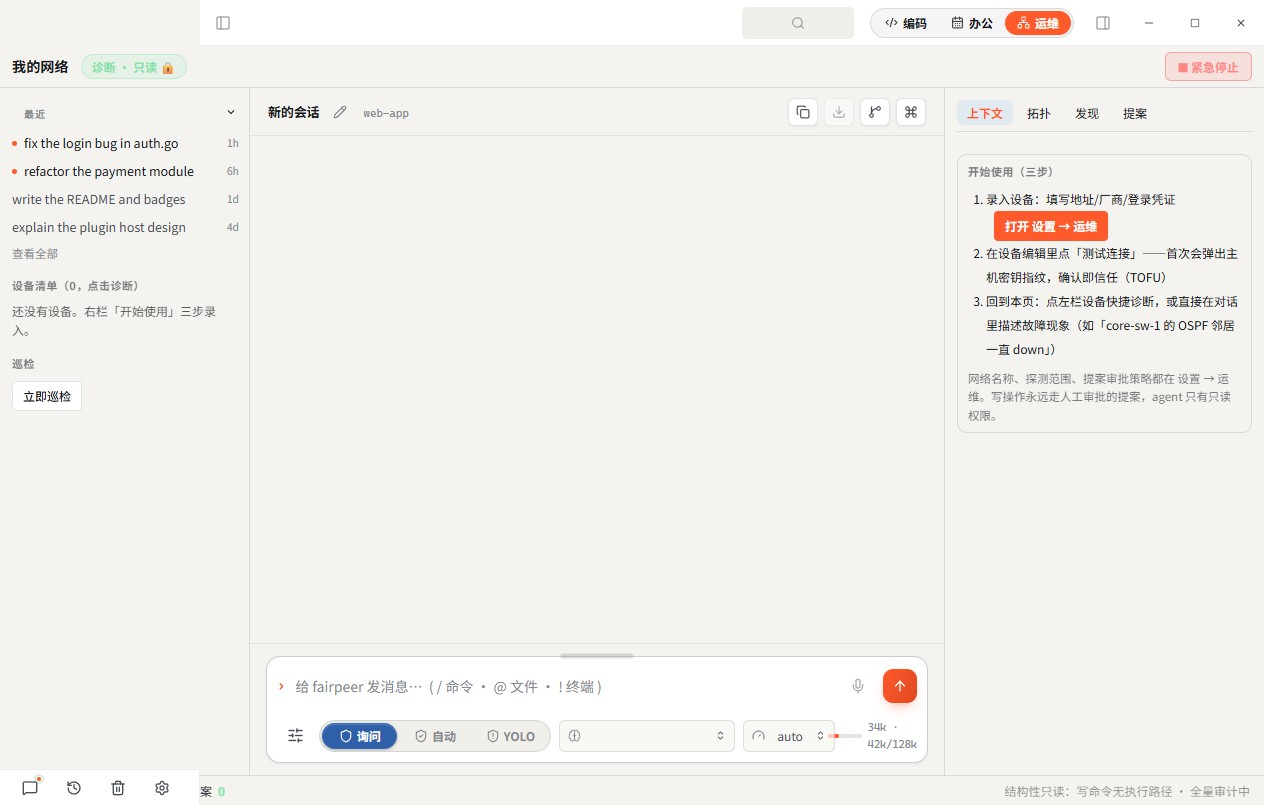
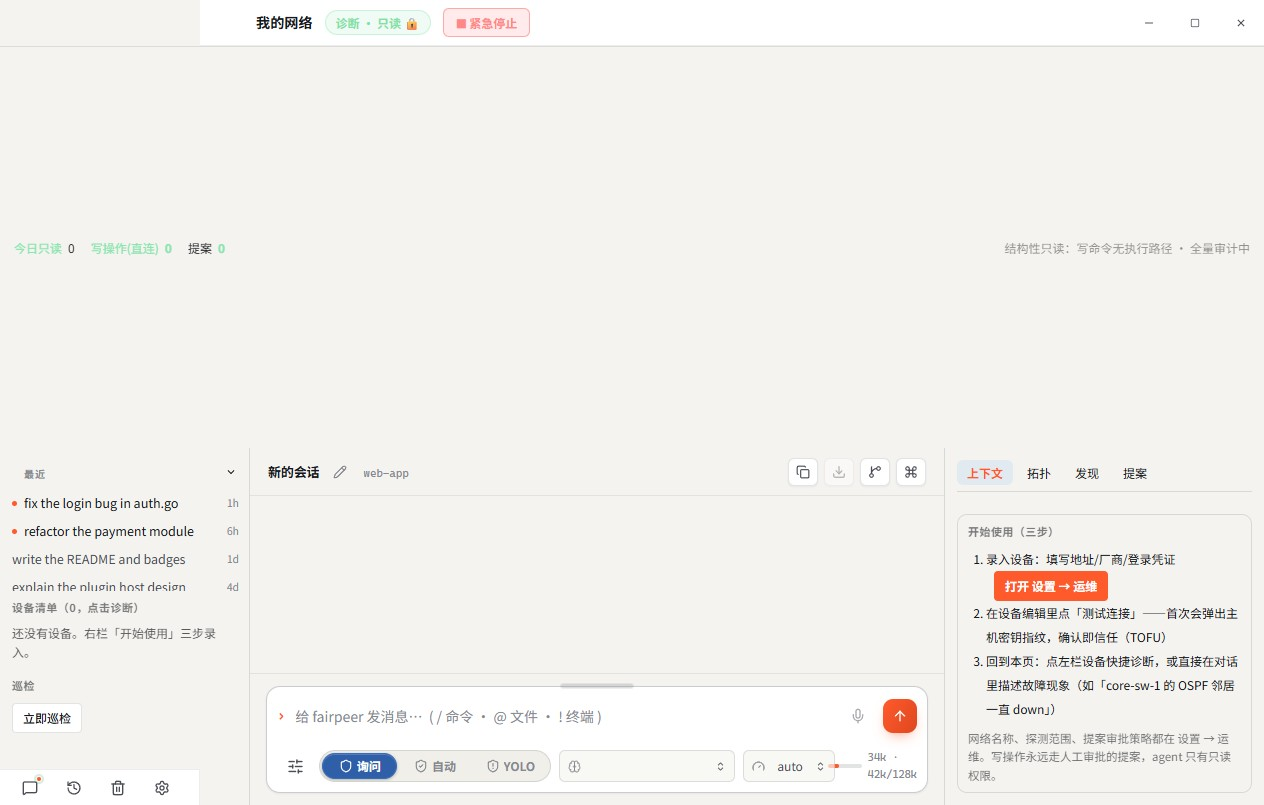
fix(netdev): 替换式标题栏——消除双层顶栏的缝合感（用户裁决方案）
诊断：全局 Chrome（AppChrome）始终渲染，运维布局又自带顶条 → 双层
顶栏 + 面板开关残留 = "缝合怪"；探针此前未暴露（浏览器 shell 环境
差异，与塌陷同款假阴性教训）。

修复（用户选"替换式"）：
- AppChrome 新增 modeChrome 开关（仅 netdev 传入）：隐藏左右面板
  开关与三段模式切换器——按你当天的 Chrome 重构（搜索已删）适配
- NetdevTitleBar（网络名+徽章+急停）改乘全局 Chrome 的 center 插槽
  ——与窗口控制同一条标题栏，正是最初草图的那一行形态
- NetDevLayout 去掉自身顶条（布局网格降为内容+底部条两层）；布局
  级错误改显于右栏顶部
- 切回编码/办公：会话列表点相应会话即可（Chrome 隐藏切换器）
- ndvshot 回归 + 视觉复核：单层标题栏成立，双层消除

diff --git a/desktop/frontend/src/components/AppChrome.tsx b/desktop/frontend/src/components/AppChrome.tsx
@@ -1,7 +1,7 @@
 import { useEffect, useState } from "react";
-import { CalendarDays, Code2, Minus, Network, PanelLeft, PanelRight, Search, Square, X } from "lucide-react";
+import type { ReactNode } from "react";
+import { CalendarDays, Code2, Minus, Network, PanelLeft, PanelRight, Square, X } from "lucide-react";
 import type { LucideIcon } from "lucide-react";
-import { TabBar } from "./TabBar";
 import type { TabMeta } from "../lib/types";
 import { useT } from "../lib/i18n";
 
@@ -29,20 +29,24 @@ interface AppChromeProps {
   onTabsClose: (tabIds: string[], nextActiveTabId?: string) => void;
   onTabsReorder: (tabIds: string[]) => void;
   onNewTab: () => void;
-  onOpenPalette: () => void;
+  // Topicbar contents (title · workspace · model + actions) merged into the
+  // chrome's center slot — the ZCode single-header pattern. Null for profiles
+  // (cowork/netdev) whose layouts render their own header.
+  center?: ReactNode;
   // Product profile (dev/cowork). profile is the active tab's mode; onSwitchProfile
   // rebuilds the controller with the new profile's bundle.
   profile: string;
   onSwitchProfile: (name: string) => void;
+  // modeChrome (netdev): the mode's own title bar rides the CENTER slot and
+  // replaces the panel toggles + profile switcher — one header, no seams.
+  // (The 运维 tab switches back via the sidebar session list.)
+  modeChrome?: boolean;
 }
 
 export function AppChrome({
   platform,
   browserPreviewChrome,
-  tabs,
-  activeTabId,
-  revealActiveSignal,
-  commandCompact,
+  center,
   sidebarTogglePressed,
   sidebarExpandBlocked,
   sidebarCollapsed,
@@ -53,18 +57,12 @@ export function AppChrome({
   workspacePanelLabel,
   onToggleSidebar,
   onToggleWorkspacePanel,
-  onTabChange,
-  onTabClose,
-  onTabsClose,
-  onTabsReorder,
-  onNewTab,
-  onOpenPalette,
   profile,
   onSwitchProfile,
+  modeChrome,
 }: AppChromeProps) {
   const t = useT();
   const darwinChrome = platform === "darwin";
-  const detachCommand = !darwinChrome;
   const showWindowsPreviewControls = browserPreviewChrome && platform === "windows";
   const chromeClassName = [
     "app-chrome",
@@ -75,20 +73,12 @@ export function AppChrome({
     `app-chrome--platform-${platform}`,
   ].filter(Boolean).join(" ");
 
-  const tabBar = (
-    <TabBar
-      tabs={tabs}
-      activeTabId={activeTabId}
-      revealActiveSignal={revealActiveSignal}
-      onTabChange={onTabChange}
-      onTabClose={onTabClose}
-      onTabsClose={onTabsClose}
-      onTabsReorder={onTabsReorder}
-      onNewTab={onNewTab}
-      onOpenPalette={detachCommand ? undefined : onOpenPalette}
-      commandCompact={commandCompact}
-    />
-  );
+  // Tab strip removed by product decision (2026-08-18): session switching goes
+  // through the sidebar "最近" list (click resumes/switches; open sessions carry
+  // a dot), ⌘K palette, and 新建会话 for new ones. TabBar.tsx stays intact for
+  // a future opt-in setting if multi-tab power features (drag reorder, batch
+  // close, mode chips) are asked for again.
+  const tabBar = null;
 
   return (
     <header className={chromeClassName}>
@@ -100,6 +90,7 @@ export function AppChrome({
         </div>
       )}
       {darwinChrome && <span className="app-chrome__drag-rail" aria-hidden="true" />}
+      {!modeChrome && (
       <button
         className={[
           "app-chrome__panel-toggle",
@@ -115,38 +106,25 @@ export function AppChrome({
       >
         <PanelLeft size={16} />
       </button>
+      )}
 
       {darwinChrome ? (
         <div className="app-chrome__tab-strip app-chrome__tab-strip--darwin">
           {tabBar}
+          {center}
         </div>
       ) : (
         <>
           <div className="app-chrome__tab-strip app-chrome__tab-strip--native">
             {tabBar}
+            {center}
           </div>
-          {detachCommand && (
-            <div
-              className={[
-                "app-chrome__tools",
-                workspaceTogglePressed ? "app-chrome__tools--workspace-pressed" : "",
-              ].filter(Boolean).join(" ")}
-              aria-label={t("tabBar.commandSearch")}
-            >
-              <button
-                className="tabbar__command tabbar__command--compact app-chrome__command"
-                type="button"
-                onClick={onOpenPalette}
-                aria-label={t("palette.placeholder")}
-              >
-                <Search size={14} className="tabbar__command-icon" />
-              </button>
-            </div>
-          )}
+          {/* Compact search button removed (2026-08-18): it duplicated the
+              topicbar 命令 palette button — every profile's header carries one. */}
         </>
       )}
 
-      {!workspacePanelMaximized && (
+      {!modeChrome && !workspacePanelMaximized && (
         <button
           className={[
             "app-chrome__panel-toggle",
@@ -164,7 +142,7 @@ export function AppChrome({
       )}
       {/* Profile segmented switcher: a pill control with a sliding highlight
           indicator. See ProfileSegmented below. */}
-      <ProfileSegmented profile={profile} onSwitchProfile={onSwitchProfile} t={t} />
+      {!modeChrome && <ProfileSegmented profile={profile} onSwitchProfile={onSwitchProfile} t={t} />}
       {showWindowsPreviewControls && (
         <div className="app-chrome__window-controls app-chrome__window-controls--windows" aria-hidden="true">
           <span className="app-chrome__window-control app-chrome__window-control--minimize">

diff --git a/desktop/frontend/src/layouts/NetDevLayout.tsx b/desktop/frontend/src/layouts/NetDevLayout.tsx
@@ -9,6 +9,36 @@ import "../styles/netdev.css";
 // thing is in focus at a time; zero devices shows a 3-step getting-started
 // guide. Styling is scoped to .app--netdev / .ndv-*.
 
+// NetdevTitleBar rides the global chrome's CENTER slot in netdev mode — the
+// mode's identity bar replaces panel toggles and the profile switcher, so
+// there is exactly one header (NETDEV_SPEC §10.1 sketch).
+export function NetdevTitleBar() {
+  const [name, setName] = useState("");
+  const [err, setErr] = useState("");
+  useEffect(() => {
+    app.NetDevSettings()
+      .then(s => setName(s?.networkName?.trim() || "我的网络"))
+      .catch(e => setErr(String(e)));
+  }, []);
+  const stop = useCallback(async () => {
+    if (!confirm("紧急停止：立即断开全部设备连接（释放所有 VTY）？")) return;
+    try {
+      const n = await app.NetDevEmergencyStop();
+      alert(`已断开 ${n} 个设备连接。`);
+    } catch (e) {
+      setErr(String(e));
+    }
+  }, []);
+  return (
+    <div className="ndv__titlebar">
+      <span className="ndv__netname" title="网络名称（设置 → 运维 可修改）">{name || "…"}</span>
+      <span className="ndv__badge">诊断 · 只读 🔒</span>
+      {err && <span className="ndv__stat" style={{ color: "#ff8787" }}>{err}</span>}
+      <span className="ndv__stop" role="button" onClick={() => void stop()}>⏹ 紧急停止</span>
+    </div>
+  );
+}
+
 const SEV_COLOR: Record<string, string> = { info: "#7ab8ff", warning: "#e0a800", critical: "#ff6b6b" };
 
 const QUICK_BATTERY: Record<string, string[]> = {
@@ -43,7 +73,7 @@ export function NetDevLayout({
   const [topoBusy, setTopoBusy] = useState(false);
   const [inspBusy, setInspBusy] = useState(false);
   const [tab, setTab] = useState<DockTab>("context");
-  const [err, setErr] = useState("");
+  const [err, setErr] = useState(""); // shown in the global title bar
 
   const reload = useCallback(async () => {
     try {
@@ -67,17 +97,6 @@ export function NetDevLayout({
     void reload();
     const t = setInterval(() => void reload(), 30_000);
     return () => clearInterval(t);
-  }, [reload]);
-
-  const emergencyStop = useCallback(async () => {
-    if (!confirm("紧急停止：立即断开全部设备连接（释放所有 VTY）？")) return;
-    try {
-      const n = await app.NetDevEmergencyStop();
-      alert(`已断开 ${n} 个设备连接。`);
-      void reload();
-    } catch (e) {
-      setErr(String(e));
-    }
   }, [reload]);
 
   const runQuick = useCallback(async (device: string, command: string) => {
@@ -115,7 +134,6 @@ export function NetDevLayout({
 
   const devices = settings?.devices ?? [];
   const selectedDevice = devices.find(d => d.name === selected);
-  const networkName = settings?.networkName?.trim() || "我的网络";
   const lastInspection = findings.find(f => f.title.startsWith("巡检"));
   const pendingCount = proposals.filter(p => p.status === "draft" || p.status === "approved" || p.status === "partial").length;
 
@@ -140,13 +158,6 @@ export function NetDevLayout({
 
   return (
     <div className="ndv">
-      <div className="ndv__top">
-        <span className="ndv__netname" title="网络名称（设置 → 运维 可修改）">{networkName}</span>
-        <span className="ndv__badge">诊断 · 只读 🔒</span>
-        {err && <span className="ndv__stat" style={{ color: "#ff8787" }}>{err}</span>}
-        <span className="ndv__stop" role="button" onClick={() => void emergencyStop()}>⏹ 紧急停止</span>
-      </div>
-
       <div className="ndv__rail">
         <div className="ndv__sessions">{sessionsNode}</div>
         <div className="ndv__section">设备清单（{devices.length}，点击诊断）</div>
@@ -197,6 +208,7 @@ export function NetDevLayout({
       </div>
 
       <div className="ndv__dock">
+        {err && <div className="banner banner--error" style={{ marginBottom: 8 }}>{err}</div>}
         <div className="ndv__tabs" role="tablist">
           {TABS.map(t => (
             <button

diff --git a/desktop/frontend/src/App.tsx b/desktop/frontend/src/App.tsx
@@ -32,7 +32,7 @@ import { useController, type Item, type LiveStream } from "./lib/useController";
 import { app, onEvent, onProjectTreeChanged, onSchedulerNotice } from "./lib/bridge";
 import { onProfileChanged } from "./lib/bridge";
 import { CoWorkLayout } from "./layouts/CoWorkLayout";
-import { NetDevLayout } from "./layouts/NetDevLayout";
+import { NetDevLayout, NetdevTitleBar } from "./layouts/NetDevLayout";
 import { PreferencePanel } from "./components/cowork/PreferencePanel";
 import { Transcript } from "./components/Transcript";
 import { ExpertSessionView } from "./components/cowork/ExpertSessionView";
@@ -3092,8 +3092,8 @@ export default function App() {
           onTabsClose={(ids, nextActiveTabId) => void handleTabsClose(ids, nextActiveTabId)}
           onTabsReorder={(ids) => void handleTabsReorder(ids)}
           onNewTab={() => void handleNewTab()}
-          onOpenPalette={() => void openPalette()}
-          center={!coworkActive && !netdevActive ? headerNode : null}
+          center={netdevActive ? <NetdevTitleBar /> : !coworkActive ? headerNode : null}
+          modeChrome={netdevActive}
           profile={coworkActive ? "cowork" : "dev"}
           onSwitchProfile={(name) => void switchProfile(name).catch(() => { /* revert handled in switchProfile */ })}
         />

diff --git a/desktop/frontend/src/styles/netdev.css b/desktop/frontend/src/styles/netdev.css
@@ -19,7 +19,7 @@
   grid-row: 2 / -1;
   grid-column: 1 / -1;
   display: grid;
-  grid-template-rows: auto minmax(0, 1fr) auto;
+  grid-template-rows: minmax(0, 1fr) auto;
   grid-template-columns: var(--ndv-sidebar-w, 250px) minmax(0, 1fr) var(--ndv-dock-w, 320px);
   min-height: 0;
   min-width: 0;
@@ -205,4 +205,14 @@
   background: var(--accent-dim, rgba(122, 184, 255, 0.2));
   border-radius: var(--radius-pill);
   padding: 1px 6px;
+}
+
+/* The netdev title bar lives INSIDE the global chrome's center slot — slim,
+   vertically centered, no second header row. */
+.ndv__titlebar {
+  display: flex;
+  align-items: center;
+  gap: 12px;
+  min-width: 0;
+  padding: 0 8px;
 }
